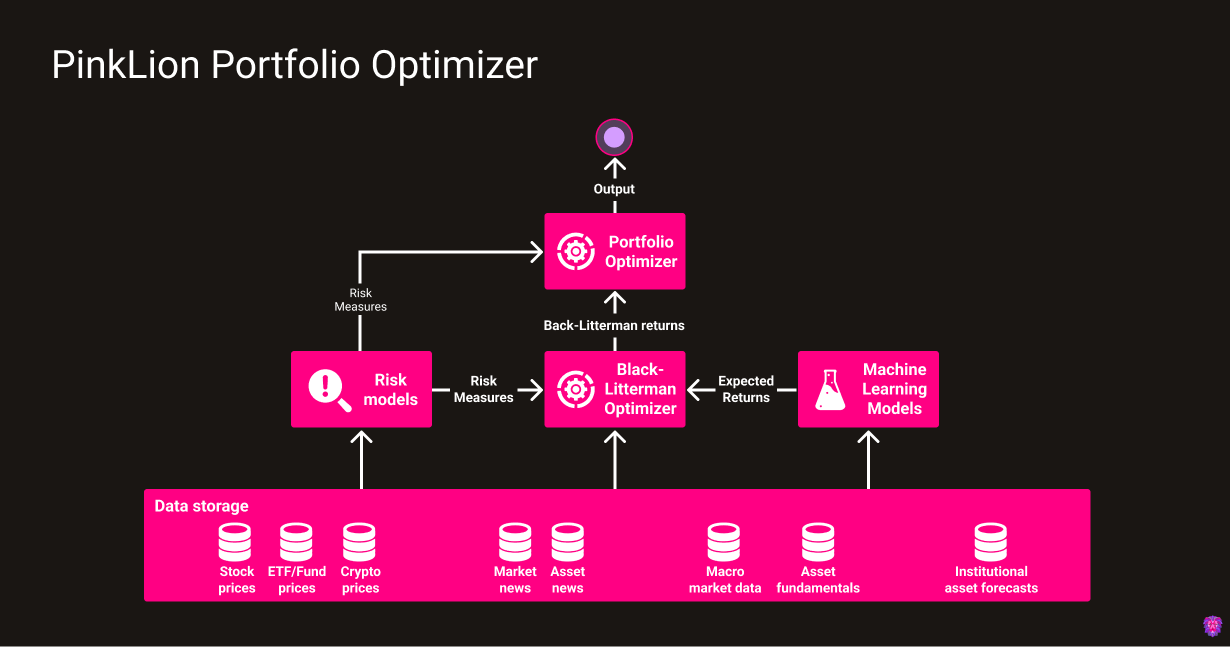
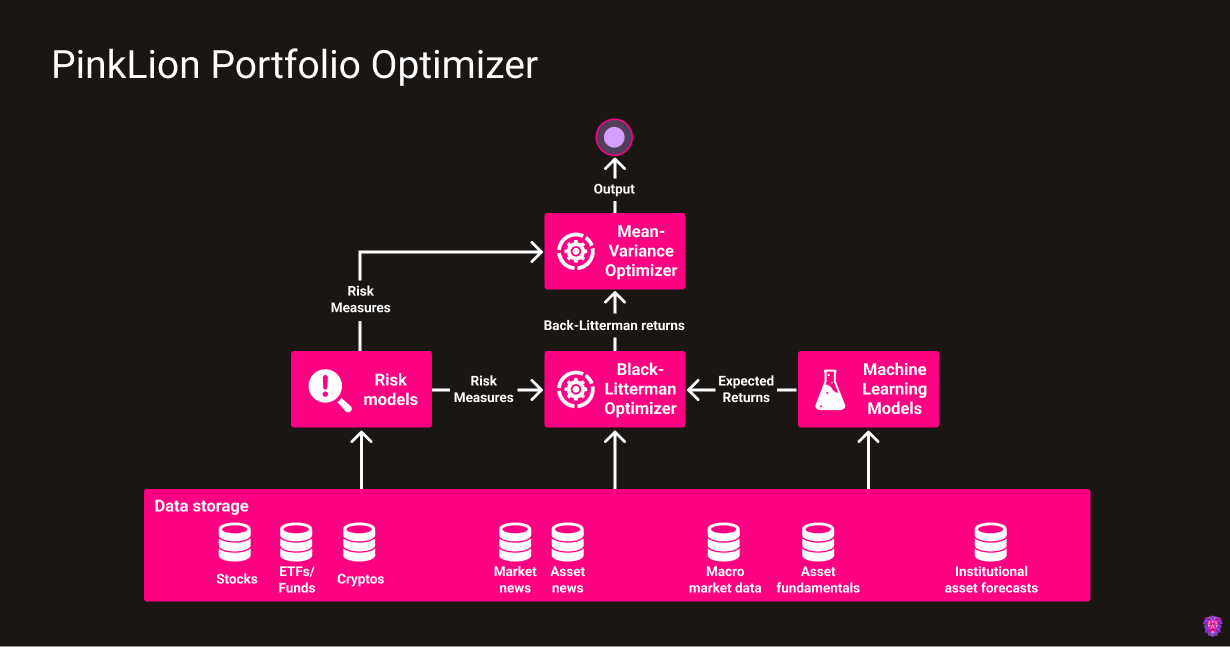
Docs for Platform architecture and portfolio optimizer

Changed region(s): [[0.1545, 0.8655, 0.3089, 0.9274], [0.4943, 0.34, 0.5561, 0.4328], [0.2472, 0.4328, 0.3089, 0.4946]]

diff --git a/docs/docs/javascripts/mathjax.js b/docs/docs/javascripts/mathjax.js
@@ -1,0 +1,16 @@
+window.MathJax = {
+  tex: {
+    inlineMath: [["\\(", "\\)"]],
+    displayMath: [["\\[", "\\]"]],
+    processEscapes: true,
+    processEnvironments: true
+  },
+  options: {
+    ignoreHtmlClass: ".*|",
+    processHtmlClass: "arithmatex"
+  }
+};
+
+document$.subscribe(() => { 
+  MathJax.typesetPromise()
+})

diff --git a/docs/docs/portfolio-optimizer.md b/docs/docs/portfolio-optimizer.md
@@ -1,6 +1,136 @@
-# Portfolio Optimizer
+---
+hide:
+  - navigation
+
+title: 
+description: Technical documentation of the PinkLion Portfolio Optimizer. Learn how the PinkLion Portfolio Optimizer can be used for risk reduction, return improvements and tactical asset allocation.
+---
+
+# **Portfolio Optimizer**
+
+The PinkLion Portfolio Optimizer is the heart of the platform and is responsible for derving asset insights and determining portfolio allocations. 
+It incorporates multiple micro-services which include classical mean-variance optimization techniques, Black Litterman allocations, and proprietary machine learning models that predict the future performance and risk level of specific assets.
 
 <figure markdown>
   ![Image title](assets/img/Portfolio Optimizer PinkLion.png)
   <figcaption>High-level portfolio optimizer architecture of PinkLion</figcaption>
 </figure>
+
+---
+
+## **Black-Litterman Optimizer**
+The Black-Litterman Optimizer uses the Black-Litterman model, created by Fischer Black and Robert Litterman. It is a sophisticated portfolio construction method that overcomes the problem of **unintuitive**, **highly-concentrated portfolios**, **input-sensitivity**, and **estimation error maximization**, which are known short-comings of the mean-variance optimization developed by Markowitz. Within the PinkLion Portfolio Optimizer, the Black-Litterman model is used to generate stable expected returns which are passed to a Mean-Variance Optimizer where the returns are paired with different risk predictions and measures to calculate a robust portfolio. 
+
+The Black-Litterman model uses a Bayesian approach to combine the subjective views of a prediction model regarding the expected returns of one or more assets with the market equilibrium vector of expected returns to form a new, mixed estimate of expected returns.
+
+### **Expected returns**
+The Black-Litterman model creates stable returns, based on a prediction model's unique insights, which overcome the problem of input-sensitivity.
+An additional feature of the Black-Litterman model that improves the stability of the predicted returns is to largely mitigate the problem of estimation error-maximization by spreading the errors throughout the vector of expected returns. 
+
+The Black-Litterman returns are essential when generating stable, mean-variance efficient portfolios. In contrast, classical expected return predictions which are based on historical asset returns, equal mean returns or risk-adjusted equal mean returns, lead to extreme portfolios.
+Extreme portfolio describe **portfolios with large long and short positions** when no constraints apply, and **portfolios with a small number of assets** if a long only asset position constraint is applied.
+
+### **Reverse optimization**
+The Black-Litterman model uses equilibrium returns as a neutral starting point. Equilibrium returns are the set of returns that clear the market. The equilibrium returns are derived using a reverse optimization method in which the vector of implied excess equilibrium returns is extracted from known information using the following Formula.
+
+$$
+\operatornameΠ=λ * CovMatrix * MarketCapWeights
+$$
+
+where
+
+- $\operatornameΠ$ is the Implied Excess Equilibrium return vector
+- $λ$ is the risk aversion coefficient, which represents the rate at which an investor will forego expected return for less variance
+- $CovMatrix$ is the covariance matrix of excess returns (N x N matrix)
+- $MarketCapWeights$ is the market capitalization weight vector (N x 1) of the assets
+
+In the reverse optimization process, the risk aversion coefficient $λ$ acts as a scaling factor for the reverse optimization estimate of excess returns. The weighted reverse optimized excess returns equal the specified market risk premium. More excess return per unit of risk (a larger lambda) increases the estimated excess returns.
+
+### **Investor views**
+The Black-Litterman model allows adding an investor's target return view of an asset which is within the PinkLion Portfolio Optimizer generated by multiple machine learning models. The target return views of an asset can be provided either as an absolute view or as a relative view with a confidence level. It is not necessary to provide target return views for every asset.
+
+The target return views are expressed as the vector $Q$ and a the uncertainty of each view is captured with the vector $Ω$.
+
+
+### **Black-Litterman model**
+
+Conceptually, the Black-Litterman model is a complex, weighted average of the
+Implied Equilibrium Market Return Vector $\operatornameΠ$ and the View Vector $Q$, in which the relative
+weightings are a function of the scalar $τ$ and the uncertainty of the views $Ω$.
+The greater the level of confidence (certainty) in the expressed views, the closer the new return vector will be to the views. 
+
+If the prediction model is less confident in the expressed views, the new return vector should be
+closer to the Implied Equilibrium Market Return Vector $\operatornameΠ$.
+
+
+!!! Tip "Black-Litterman output"
+    The Black-Litterman model is meant to produce a vector of asset returns $E[R]$ which are influenced by the views of a prediction model. 
+
+The formula for deriving the asset returns looks as follow:
+
+$$
+\operatorname E[R] = [(τΣ)^{-1} + PΩ^{-1}P] × [(τΣ)^{-1}\operatornameΠ + PΩ^{-1}Q]
+$$
+
+where
+
+- $E[R]$ is the new (posterior) Combined Return Vector (N x 1 column vector)
+- $τ$ is a scalar that is inversely proportional to the relative weight given to the Implied Equilibrium Market Return Vector $\operatornameΠ$
+- $Σ$ is the covariance matrix of excess returns (N x N matrix)
+- $P$ is a matrix that identifies the assets involved in the views (K x N matrix or 1 x N row vector in the special case of 1 view)
+    * **K** is the number of views
+    * **N** is the number of assets
+- $Ω$ is a diagonal covariance matrix of error terms from the expressed views representing the uncertainty in each view (K x K matrix)
+- $Q$ is the View Vector (K x 1 column vector). 
+- $\operatornameΠ$ is the Implied Equilibrium Market Return Vector (N x 1 column vector)
+
+For a better overview here is a diagram of the calculation steps within the Black-Litterman model.
+
+<figure markdown>
+  ![Black-Litterman model calculation steps](assets/img/Black-Litterman model.png)
+  <figcaption>Black-Litterman model calculation steps</figcaption>
+</figure>
+
+The scalar $τ$ is more or less inversely proportional to the relative weight given to the Implied Equilibrium Market Return Vector $\operatornameΠ$. 
+Unfortunately, guidance in the literature for setting the scalar’s value is scarce. Both Black and Litterman (1992) and Lee (2000) address this issue, since the uncertainty in the mean is less than the uncertainty in the return, the scalar $τ$ is close to zero.
+
+The model does not require an target return view for every single asset, instead a single view can cause the return of every asset in the
+portfolio to change from its Implied Equilibrium Market return, since each individual return is linked to the other returns via the covariance matrix of excess returns $\operatornameΣ$.
+
+Source: A STEP-BY-STEP GUIDE TO THE BLACK-LITTERMAN MODEL - Thomas M. Idzorek
+
+---
+
+## **Risk models**
+
+Within the PinkLion Portfolio Optimizer the following metrics are being used to determine the risk of an asset and portfolio. The metrics are used 
+
+
+|Risk Measure|Description|Risk-Return Measure|
+|------------|-----------|---------------------------|
+|Standard Deviation|The standard deviation indicates how much the data deviates and will fall within a certain distance from the mean.|Sharpe Ratio|
+|First Lower Partial Moment|Lower Partial Moments measure risk by considering only negative deviations from a reference point. The first moment describes the expected shortfall as an area between the target level and negative asset returns.|Omega Ratio|
+|Second Lower Partial Moment|Lower Partial Moments measure risk by considering only negative deviations from a reference point. The second moment describes the expected variance between the target level and negative asset returns.|Sortino Ratio|
+|Maximum Drawdown|The Maximum Drawdown represents the maximum cumulative loss of a portfolio or asset from the highest price within a period, and is usually displayed as a percentage.|Calmar Ratio|
+|Value at Risk (VaR)|The value at risk describes the maximum expected loss in value of a portfolio that is unlikely to be exceeded within a holding period under normal market conditions.||
+|Conditional Value at Risk (CVaR)|The conditional value at risk (CVaR) is the average expected loss with the condition that the Value at Risk (VaR) is exceeded. Like the VaR, it is a measure of the downside risk, but not only takes into account the probability of a loss, but also its magnitude. The CVaR is particularly suitable to measure extreme level of risks, which are very unlikely to occur but cause massive financial damage.||
+
+
+---
+<!-- 
+## **Machine Learning models**
+
+
+
+--- -->
+
+## **Mean-Variance Optimizer**
+
+A pioneering theory of portfolio management is the Markowitz model (1952), also known as the mean-variance approach or modern portfolio theory (MPT). The theory is based on the premise that when allocating resources among different assets, the investor considers not only the expected returns but also the risk associated with each of these holdings. Modern portfolio theory assumes that the investor maximizes the expected utility of a portfolio.
+
+The Mean-Variance Optimizer implementation within the PinkLion Optimizer takes the expected asset returns generated by the Black-Litterman model and evaluates them against one or multiple risk metrics which have been defined above.
+
+Therefore, a set of asset allocations is defined, made available on the PinkLion web interface and delivered to you as the user.
+
+
+---

diff --git a/docs/docs/platform-architecture.md b/docs/docs/platform-architecture.md
@@ -1,6 +1,89 @@
-# Platform architecture
+---
+hide:
+  - navigation
+
+title: 
+description: Technical documentation of the PinkLion Platform Architecture. Learn how the PinkLion Platform applies data science and machine learning to delivery world class intuitve portfolio management and asset allocations.
+---
+
+# **Platform architecture**
+
+The PinkLion Platform is a micro-service architecture with multiple components. The platform centralizes and standardizes financial data from many different sources. The connected sources include classical asset information of stocks, ETFs, and funds as well as various cryptocurrencies. News article for general market activities and specific asset news and events are being collected in conjunction with macroeconomic market data.
+
+The curated data corpus enables you as the user to apply data science and machine learning via the PinkLion web interface to dramatically improve the understanding of how markets behave and what risks and returns are associated to individual assets.
 
 <figure markdown>
   ![Image title](assets/img/High-Level Architecture PinkLion.png)
   <figcaption>High-level platform architecture and applications comprising PinkLion</figcaption>
 </figure>
+
+---
+
+## **Data Sources** 
+The connected data sources represent the fundamental layer of the PinkLion Platform. An overview of each can be found in the table below.
+
+| Data source name        | Description                          |
+| -----------------| ------------------------------------ |
+| Classical Assets | Classical Assets are Stocks, ETFs, and Funds for which `Asset prices`, `Trading volumes`, `Dividends` and many more attributes are being recorded. <br> In addition, asset fundamentals including `Company Balance Sheets`, `Company Profit & Loss Statements`, and `ESG information` are being collected.|
+| Cryptocurrencies | The data source Cryptocurrencies is comprised of Bitcoin, various Altcoins and Stablecoins for which `Asset prices`, `Trading volumes`, `Coin supply`, `Market shares` and many more attributes are being recorded. |
+| News             | The PinkLion Platform collects for the News data source news articles from multiple sources to obtain an early market sentiment. Thus, for a better understanding of why markets are moving and why specific assets are having price shifts is obtained. For a holistic picture `Market news` and specific `Asset news` are being index and aggregated|
+| Macroeconomic market data | In order to capture long lasting trends in the market high-level market data are being collected which include `Inflation`, `Citizen Wealth Developments`, and `Consumption rates`, ... |
+
+---
+
+## **Data Ingestion and Storage**
+After having identified relevant data sources an infrastructure ingests, cleans, and categories the incoming data. Each source is ingested either via a scheduled batch or a streaming pipeline and goes through multiple cleaning steps to ensure that all ingested records are unique, posses the same granularity and indices.
+
+Since portfolio management and strategic asset allocation which is made available via the web interface, two very polar opposite data availability requirements are imposed on the PinkLion storage infrastructure. 
+
+You as a user should always have the most up to date information at hand when interacting with the PinkLion website. On the other hand very complex and data heavy algorithmic and machine learning applications have to generate additional insights which will give you an edge when making a decision.
+
+Due to the need of having data available in almost real-time for the website and having massive amounts of data at hand for the insight generating machine learning models, the PinkLion storage infrastructure is split in two parts. 
+
+**Part one of the storage infrastructure** is responsible for making a selected set of information timely available to you as the user and is able to receive many small updates with a limited historical scope.
+
+**Part two of the storage infrastructe** is a more persistent storage which holds the entire data corpus of the PinkLion Platform. It is used by various machine learning micro-service applications to generate insights which are being served to the website.
+
+!!! Tip "Storage infrasture capability"
+    Combined the PinkLion Storage infrastructure is able to provide a real-time view of a portfolio and assets as well as insights which have been derived by considering the entire history of a large portion of the market.
+
+---
+
+## **Portfolio Tracker**
+The PinkLion Portfolio Tracker allows to keep track of your portfolio developments. It provides a historical view of your portfolio performance, how much captial has been invested and important KPIs. 
+
+In addtion, portfolio metrics are being calculated such as annulaized returns, maximal drawdowns and the sharpe ratio of the portfolio.
+The Portfolio Tracker is able to access data of around **8000 Stocks**, **2000 Funds and ETFs**, and over **7500 Cryptocurrencies**.
+
+No complicated setup or data maintenance is required, your investments can be entered into the tracker and are instantly visualized.
+
+<figure markdown>
+  ![Image title](assets/img/portfolio-tracker-screenshot.png)
+  <figcaption>PinkLion Portfolio Tracker Chart</figcaption>
+</figure>
+
+
+
+Weight charts across all asset classes let you see at a glance your capital allocation across sectors, asset classes and countries to identify cluster risks. (to be released)
+
+
+!!! Tip "Optimizing your portfolio"
+    In order to improve the returns of your porfolio or to use a scientific risk management, your portfolio can be simply handed over to the PinkLion Portfolio Optimizer.
+
+---
+
+## **Portfolio Optimizer**
+The PinkLion Portfolio Optimizer is the heart of the platform and is responsible for derving asset insights and determining portfolio allocations.
+The Optimizer is fully integrated and consists of multiple sub-components of which all are having access to the underlying data corupus. The entire might of the PinkLion Portfolio Optimizer can be used with single press on a button. 
+
+From a high-level architectural perspective the Optimizer is comprised of various risk models, machine learning models to predict future asset performance, and a multitude of models that determine potential portfolio allocations. To find out more go to the **Portfolio Optimizer** section.
+
+<figure markdown>
+  ![Image title](assets/img/Portfolio Optimizer PinkLion.png)
+  <figcaption>High-level portfolio optimizer architecture of PinkLion</figcaption>
+</figure>
+
+
+
+
+

diff --git a/docs/docs/index.md b/docs/docs/index.md
@@ -2,35 +2,53 @@
 hide:
   - navigation
   - toc
+
+description: Technical documentation of PinkLion. Learn how the PinkLion Platform applies data science and machine learning to delivery world class intuitve portfolio management and asset allocations.
 ---
 
-# Transparency is key
-
-PinkLion has been build to enable people to make better investment decision. PinkLion improves financial asset portfolios by providing insights of how risk can be optimally structured and lowered, as well as how more stable and increased asset returns can be achieved. 
-
-Trust and factual clarity is an integral part when making financial investment decision.
-
-Thus we are providing a detailed documentation for every single components that comprise the PinkLion Platform. In addition, we provide a in-depth explaination of how each platform component works and functions.
-
-Below find links to resources and technical documentation.
 
 
-## Platform architecture
-### Explore PinkLion's, API-first architecture
+# **Documention - Transparency is key**
+Technical documentation of PinkLion. Learn how the PinkLion Platform applies data science and machine learning to delivery intuitve world class portfolio management and asset allocations.
 
-The PinkLion Platform is a micro-service architecture with multiple services. Learn more about each service and the capability it provides.
+## **Overview**
+
+PinkLion has been built to help people make better investment decision by combining world class portfolio management and simple, intuitve design.  
+The bedrock of PinkLion are a multitude of mathematically complex models that allow best in class scientific portfolio management and strategic asset allocations. Users can gain insights of how risk can be optimally structured and lowered, as well as how more stable and increased asset returns can be achieved. 
+
+
+!!! Example "Guidance"
+    **Factual clarity is an integral part when making financial decision.**
+
+    Thus we try our best to provide a detailed documentation for every single component that is part of the PinkLion Platform. In addition, we provide a in-depth explaination of how each platform component works and functions.
+
+Below find links to resources and the technical documentation.
+
+---
+
+## **Platform architecture**
+### Explore PinkLion's, API-first platform architecture
+
+The PinkLion Platform is a micro-service architecture with multiple services. 
+
+The PinkLion Platform centralizes and standardizes financial data from many different sources. Which enables the user to apply data science and machine learning via the PinkLion web interface to dramatically improve the understanding of how markets behave and what risks and returns are associated to individual assets.
+
+[Learn more](platform-architecture/) about each service and the capability it provides.
 
 <figure markdown>
   ![Image title](assets/img/High-Level Architecture PinkLion.png)
   <figcaption>High-level platform architecture and applications comprising PinkLion</figcaption>
 </figure>
 
+---
 
+## **Portfolio Optimizer**
+### Explore the Functionalities of PinkLion's Portfolio Optimizer
+The PinkLion Portfolio Otimizer is the heart of the platform and is responsible for derving asset insights and determining portfolio allocations. 
 
-## Portfolio Optimizer
+It incorporates multiple micro-services which include classical mean-variance optimization techniques, Black Litterman allocations, and proprietary machine learning models that predict the future performance and risk level of specific assets.
 
-### Learn About PinkLion's Portfolio Optimizer
-
+[Learn more](portfolio-optimizer/) about the capability it provides.
 
 <figure markdown>
   ![Image title](assets/img/Portfolio Optimizer PinkLion.png)
